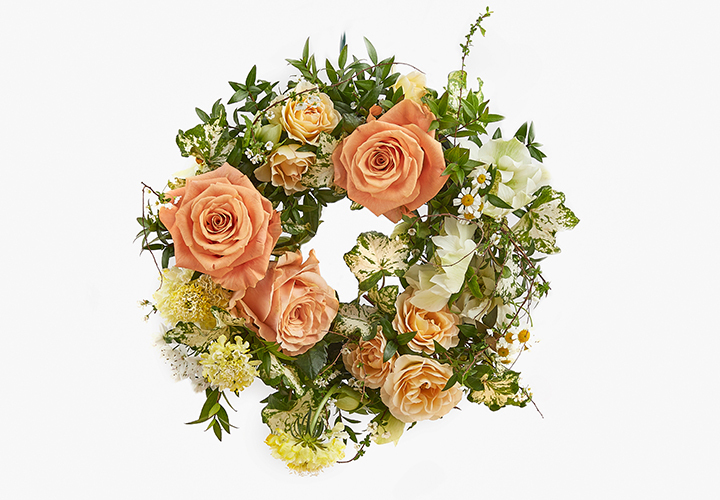
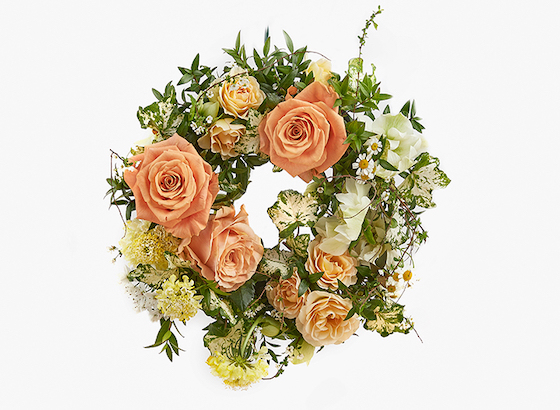
Add: 이미지 크기 조정 및 li 태그 선택자 주석 처리

diff --git a/style/index.css b/style/index.css
@@ -302,10 +302,10 @@
   letter-spacing: -0.21px;
   color: #787878;
 }
-body {
+/* body {
   box-sizing: border-box;
   font-family: 'Noto Sans KR', sans-serif;
-}
+} */
 .test {
   position: relative;
 }
@@ -529,10 +529,10 @@ a {
   padding: 0 15px;
 }
 
-li {
+/* li {
   display: inline-block;
   vertical-align: top;
-}
+} */
 
 .userNameDetail {
   display: inline-block;
